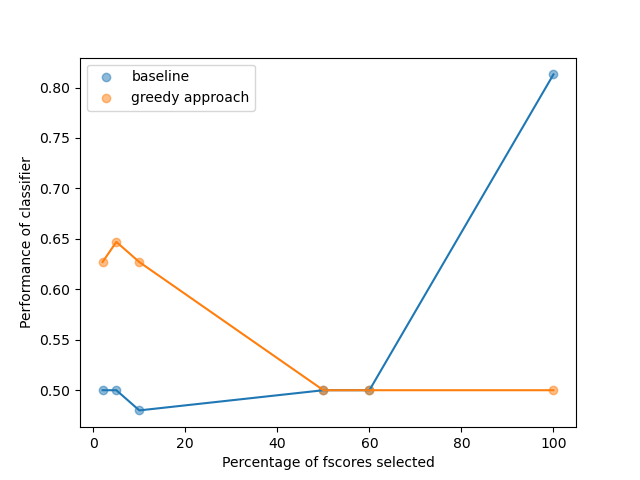
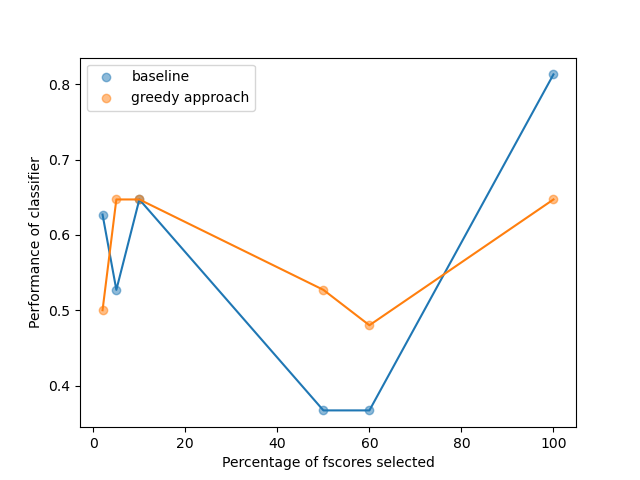
Leave one out cross validation without oversampling: error: sometimes one class is not present in DS

diff --git a/graphtools/fc_data/load_data.py b/graphtools/fc_data/load_data.py
@@ -16,6 +16,7 @@ import logging
 import os
 import itertools as it
 from metrics import diag_flattened_indices, find_indices
+from sklearn.model_selection import LeaveOneOut
 
 global dir1
 from sklearn.utils.fixes import loguniform
@@ -132,7 +133,7 @@ def fit_classifier(X_train, X_test, y_train, y_test, n_fold, index):
     cv_inner = KFold(n_splits=3, shuffle=True, random_state=35)
 
     # define the model
-    clf = SVC(probability=True)
+    clf = SVC()
     space = {'C': loguniform(1e-4, 1, 1e-2, 100),
              'gamma': loguniform(1e-4, 1e-2, 1e-3),
              'kernel': ['rbf', 'poly', 'sigmoid', 'linear'],
@@ -290,7 +291,8 @@ def main():
         # fscore_hist(combined_edges)  # fscores of the edges
         # fscore_hist(combined_nodes)  # fscores of the node features
         assert not sum(combined_edges.isna().any())
-        skf = StratifiedKFold(n_splits=5, random_state=25, shuffle=True)
+        #skf = StratifiedKFold(n_splits=5, random_state=25, shuffle=True)
+        skf = LeaveOneOut()
 
         dict_idx = find_indices(shape=num_nodes)
         indices = list(dict_idx.keys())
@@ -300,7 +302,7 @@ def main():
         conx = pd.concat([X, y], axis=1)
         fscores_all = fscore(conx, class_col=conx.columns[-1])[:-1]
         # we do not need the fscores of label with itself
-        oversample = RandomOverSampler(sampling_strategy=0.9)
+        oversample = RandomOverSampler(sampling_strategy='minority')
 
         X_train, X_test, y_train, y_test = train_test_split(X, y, test_size=0.20, stratify=y, random_state=20)
         X_train, y_train = oversample.fit_resample(X_train, y_train)
